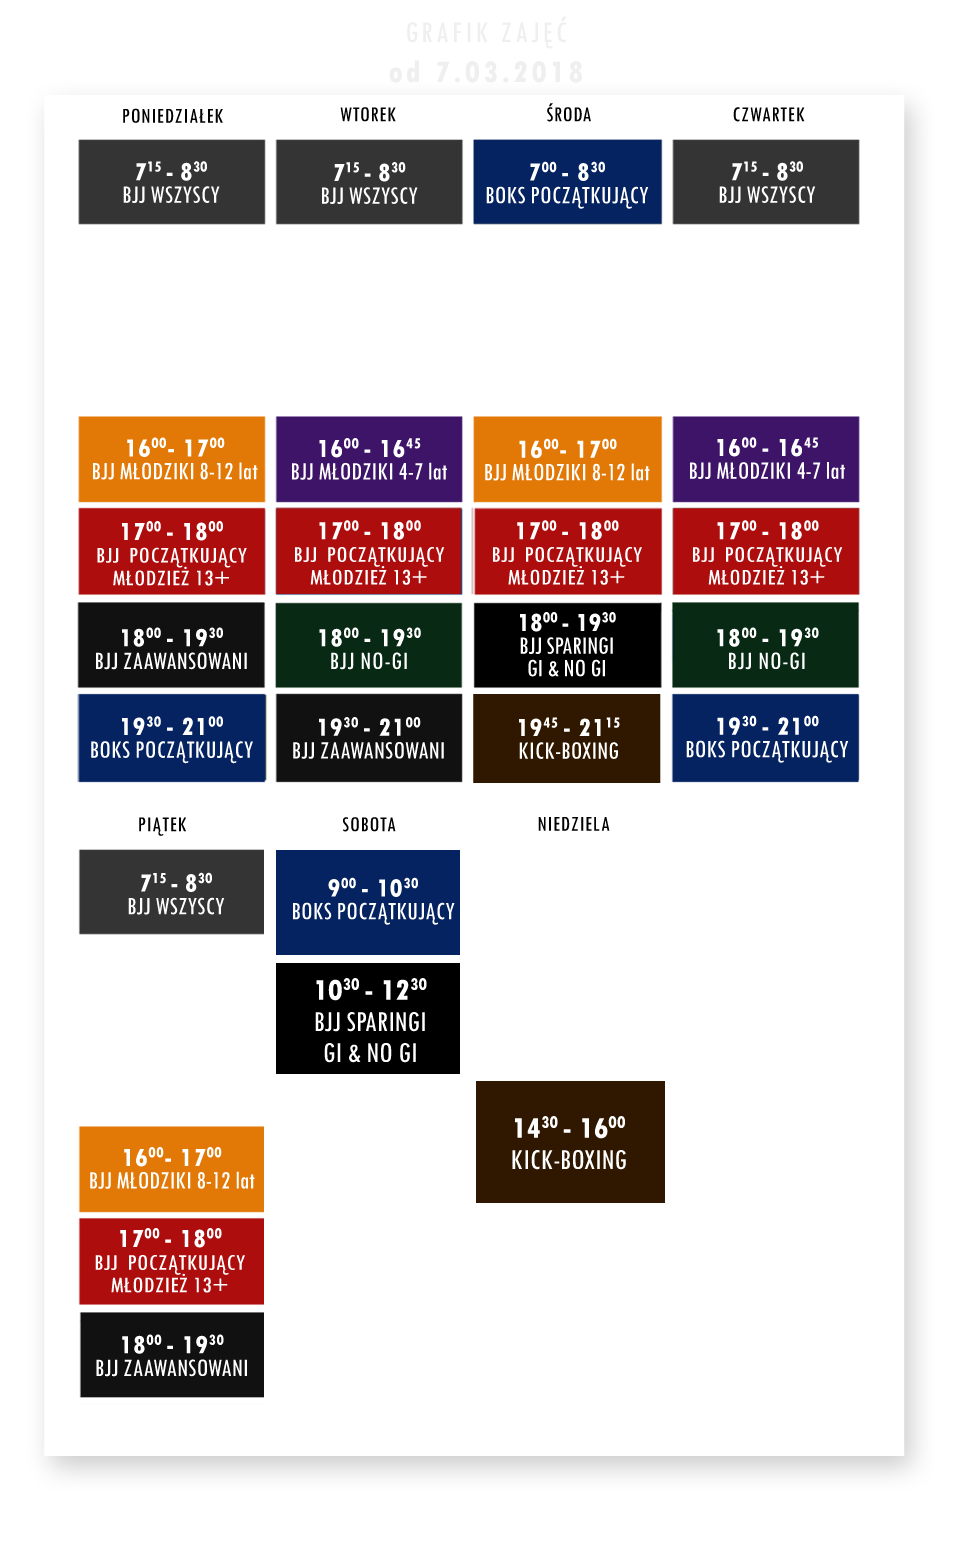
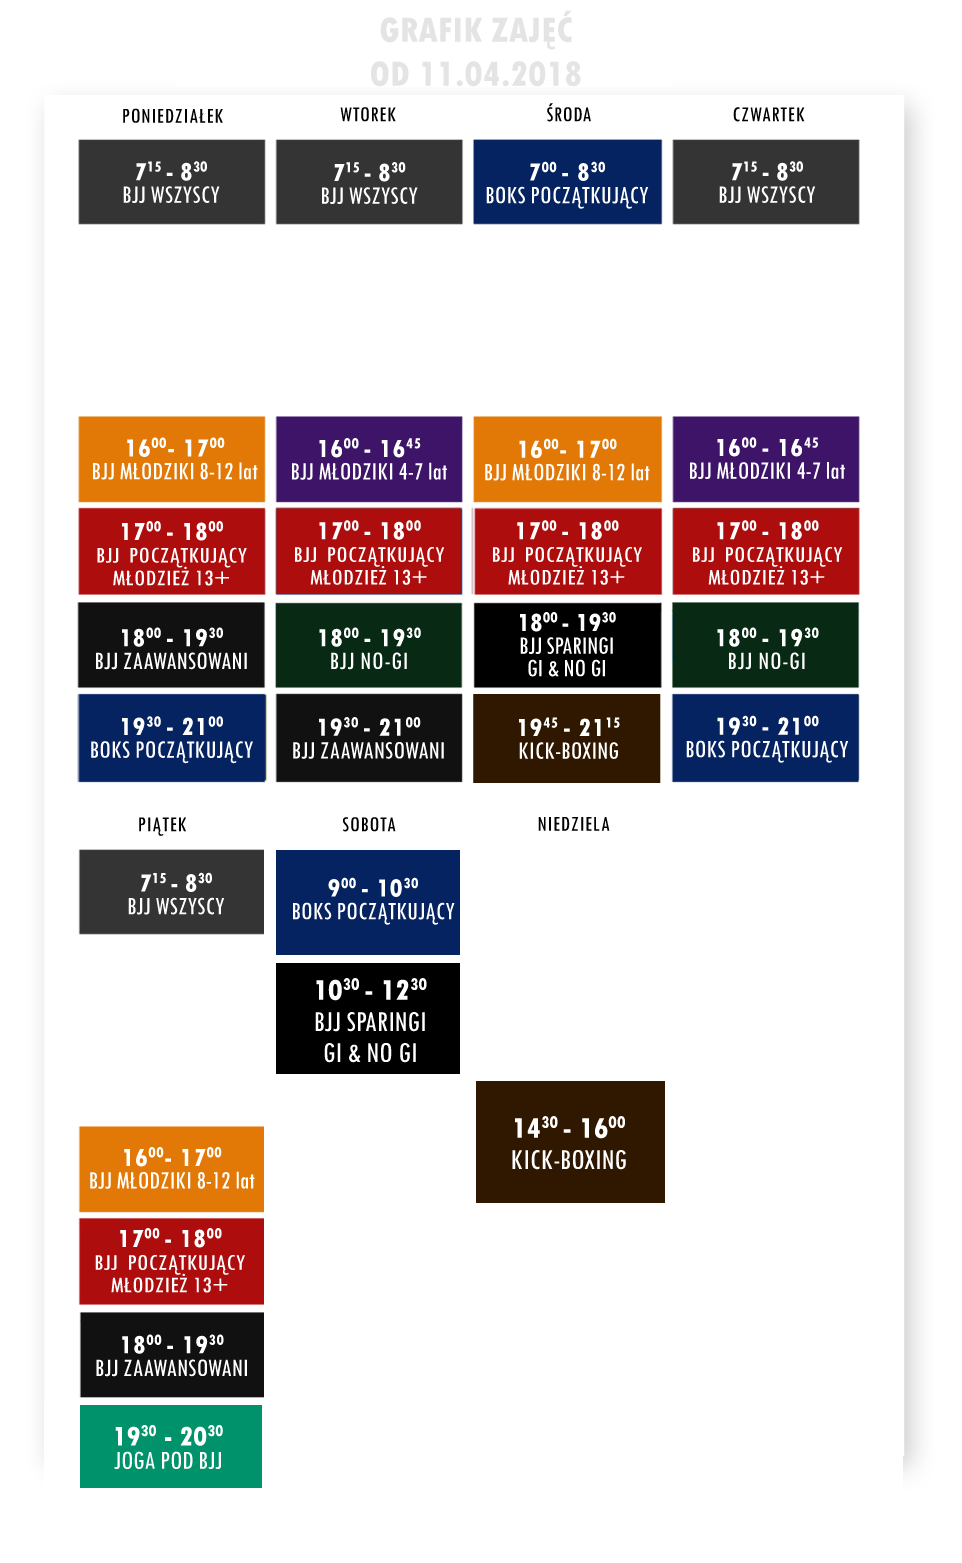
shedule change for february

diff --git a/css/style.css b/css/style.css
@@ -100,8 +100,9 @@ Modules
   left: 0;
   width: 100%;
   height: 70px;
-  background: rgba(255, 255, 255, 0.95);
-  box-shadow: 0 1px 2px rgba(0, 0, 0, 0.2);
+  /* background: rgba(255, 255, 255, 0.95); */
+  background: rgba(255, 255, 255, 0.8);
+  box-shadow: 0 1px 2px rgba(255, 255, 255, 0.2);
 
   z-index: 2;
 }
@@ -410,7 +411,7 @@ Modules
 
   #schedule{
     margin: 10px auto;
-    background-image: url('../img/grafikM.png');
+    background-image: url('../img/GRAFIK_MOBILE_luty.png');
     background-size: contain;
     background-repeat: no-repeat;
     background-position-x: center;
@@ -527,6 +528,11 @@ Modules
 
   .wideCell, .white{
     color: white;
+  }
+
+  .summer-offer span{
+    font-size: 15px;
+    color: #944d4d;
   }
 
 
@@ -676,7 +682,7 @@ footer{
   }
 
   #schedule{
-    background-image: url('../img/grafikN.png');
+    background-image: url('../img/GRAFIK_WWW_1_02.png');
  
   
   }
@@ -752,6 +758,11 @@ footer{
 
   #priceList{
     font-size: 25px;
+  }
+
+  .summer-offer span{
+    font-size: 25px;
+    color: #944d4d;
   }
 
  }

diff --git a/index.html b/index.html
@@ -48,7 +48,8 @@
 		<div id="home" class="cd-fixed-bg cd-bg-1">
 
 			<h1>BRAZYLIJSKIE JIU JITSU <br><br>
-			   BOKS</h1>
+			   BOKS KICKBOXING
+			</h1>
 
 		</div> <!-- cd-fixed-bg -->
 
@@ -361,18 +362,18 @@
 						</tr>
 						<tr>
 							<td class="wideCell">Młodziki 4-7 lat:</td>
+							<!-- <td class="summer-offer"><span>promocja </span>50zł</td> -->
 							<td>110zł</td>
 							
 						</tr>
 						<tr>
 							<td class="wideCell">Młodziki 8-12 lat:</td>
+							<!-- <td class="summer-offer"><span>promocja </span>60zł</td> -->
 							<td>120zł</td>
 						</tr>
 					</table>
 					
-					<!-- <div id="logo1">
-								
-							</div> -->
+			
 				</div>
 			</div> <!-- cd-container -->
 		</div> <!-- cd-scrolling-bg -->

diff --git a/js/main.js b/js/main.js
@@ -6,6 +6,7 @@ jQuery(document).ready(function($){
 
     // gladkie przewijanie
     $('.cd-header a').on('click', function(){
+        $('.cd-main-nav ul').removeClass('is-visible');
         $('html, body').animate({
             scrollTop: $( $(this).attr('href') ).offset().top
         }, 500);
